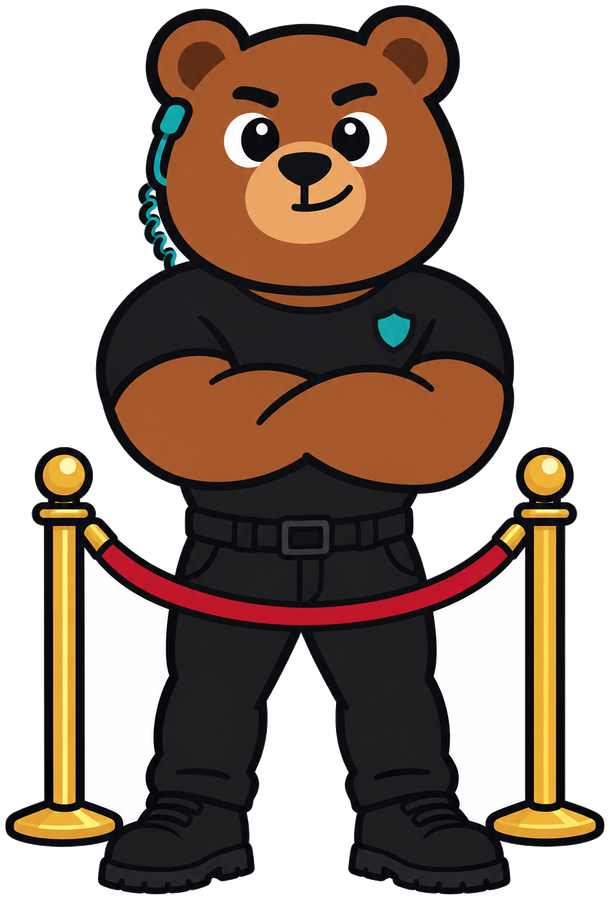
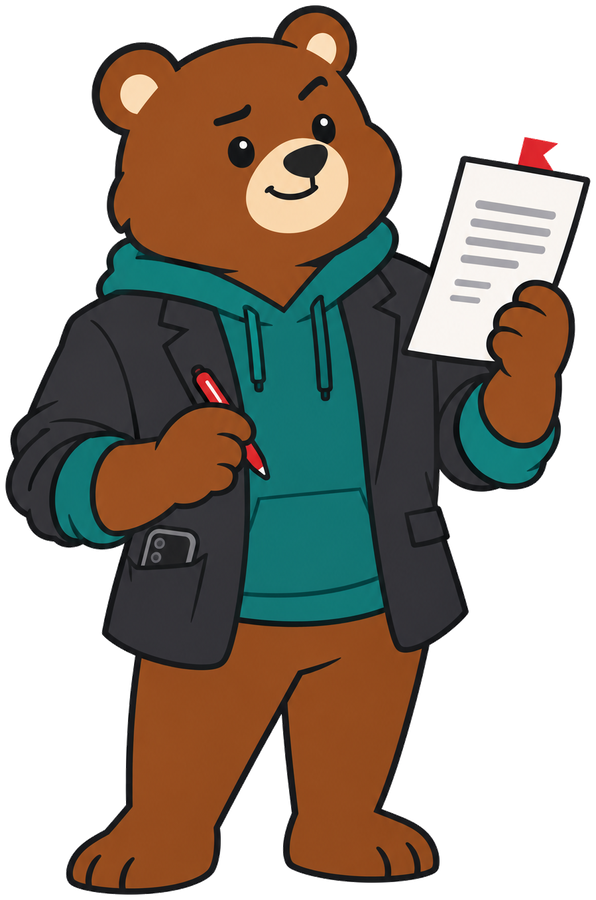
Redraw Bowncr the Bear as the creator's agent (drop bouncer/nightclub cues)
Hero, verdict faces, icon mark, OG card and app icons now show a bear in a
blazer over a teal hoodie reading a red-flagged contract; velvet rope,
stanchions, black bouncer tee and earpiece are gone. Tagline moves from
'the bear at the door of your inbox' to 'the agent who reads your brand
deals first'. Unused bowncr-app-icon.* removed.

diff --git a/docs/index.html b/docs/index.html
@@ -18,7 +18,7 @@
   <meta property="og:image" content="https://bowncr.app/og.png">
   <meta property="og:image:width" content="1200">
   <meta property="og:image:height" content="630">
-  <meta property="og:image:alt" content="Bowncr the Bear, a bear bouncer behind a velvet rope, next to the line: Know which sponsorship emails are real.">
+  <meta property="og:image:alt" content="Bowncr the Bear, a bear in a blazer over a teal hoodie reading a red-flagged contract, next to the line: Know which sponsorship emails are real.">
   <meta name="twitter:card" content="summary_large_image">
   <meta name="twitter:image" content="https://bowncr.app/og.png">
   <meta name="twitter:title" content="Bowncr — Know which sponsorship emails are real">
@@ -85,7 +85,7 @@
   <section class="hero" id="top">
     <div class="hero-grid">
       <div class="hero-copy">
-        <span class="hero-badge">For creators · Gmail extension · The bear at the door of your inbox</span>
+        <span class="hero-badge">For creators · Gmail extension · The agent who reads your brand deals first</span>
         <h1>Know which sponsorship emails are <span>real</span> — before you open the contract.</h1>
         <p class="lede">Bowncr sits inside Gmail and checks every brand pitch for you: is the sender really the brand, is that “campaign brief” actually malware, and what do the terms say? All in your browser. Your inbox never leaves your computer.</p>
         <div class="hero-actions">
@@ -97,7 +97,7 @@
       <div class="hero-visual reveal">
         <picture class="hero-bear">
           <source srcset="assets/img/bowncr-hero.webp" type="image/webp">
-          <img src="assets/img/bowncr-hero.png" width="610" height="900" alt="Bowncr the Bear: a brown bear in a black bouncer tee, arms crossed behind a velvet rope" fetchpriority="high">
+          <img src="assets/img/bowncr-hero.png" width="596" height="900" alt="Bowncr the Bear: a brown bear in a blazer over a teal hoodie, red pen in paw, reading a sponsorship contract with a red flag sticking out of it" fetchpriority="high">
         </picture>
         <div class="inbox-mock" role="img" aria-label="Preview of Bowncr badges inside a Gmail inbox">
           <div class="mock-bar"><i></i><i></i><i></i></div>
@@ -343,7 +343,7 @@
   <footer>
     <div class="footer-left">
       <img src="hoa-logo.png" alt="House of Arqam Ventures LLC" width="24" height="24" loading="lazy">
-      Bowncr — the bear at the door of your inbox. Made by House of Arqam Ventures LLC
+      Bowncr — the agent who reads your brand deals before you reply. Made by House of Arqam Ventures LLC
     </div>
     <div class="footer-links">
       <a href="check.html">Pitch Checker</a>

diff --git a/docs/assets/site.css b/docs/assets/site.css
@@ -62,7 +62,7 @@ nav::after {
 .hero-grid { display: grid; grid-template-columns: 1fr 1fr; gap: 40px; align-items: center; }
 .hero-grid > * { min-width: 0; }
 .hero-visual { position: relative; padding: 0 168px 0 0; }
-.hero-bear { position: absolute; right: -12px; bottom: -28px; width: 212px; z-index: 2; display: block; }
+.hero-bear { position: absolute; right: -24px; bottom: -28px; width: 200px; z-index: 2; display: block; }
 .hero-bear img { width: 100%; height: auto; display: block; filter: drop-shadow(0 12px 18px rgba(0, 0, 0, 0.22)); }
 .hero-badge {
   display: inline-block; font-size: 12px; font-weight: 600; letter-spacing: 0.04em;
@@ -289,7 +289,7 @@ html:not(.js) .reveal { opacity: 1; transform: none; }
 /* Responsive */
 @media (max-width: 1100px) {
   .hero-visual { padding-right: 128px; }
-  .hero-bear { width: 168px; right: -8px; bottom: -20px; }
+  .hero-bear { width: 156px; right: -16px; bottom: -20px; }
 }
 @media (max-width: 860px) {
   .hero-grid, .grid-3, .grid-2, .steps, .plans, .checker { grid-template-columns: 1fr; }

diff --git a/SPEC.md b/SPEC.md
@@ -1,8 +1,10 @@
 # Bowncr — MVP spec
 
-Brand: **Bowncr** — "the bear at the door of your inbox". Mascot: Bowncr the
-Bear, a chunky brown bear in a bouncer's black tee; the four verdict badges are
-his four expressions. bowncr.com and bowncr.app were unregistered per registry
+Brand: **Bowncr** — "the agent who reads your brand deals before you reply".
+Mascot: Bowncr the Bear, a chunky brown bear dressed like a young talent
+manager — charcoal blazer over a teal hoodie, contract and red pen in paw. He is
+the creator's agent, not a security guard (no bouncer/nightclub cues, no suit and
+tie); the four verdict badges are his four expressions. bowncr.com and bowncr.app were unregistered per registry
 RDAP on 2026-09-20 (Google Registry / Verisign); run a USPTO/EUIPO search and
 grab the @bowncr handles before buying. See "Name decision" at the end.
 
